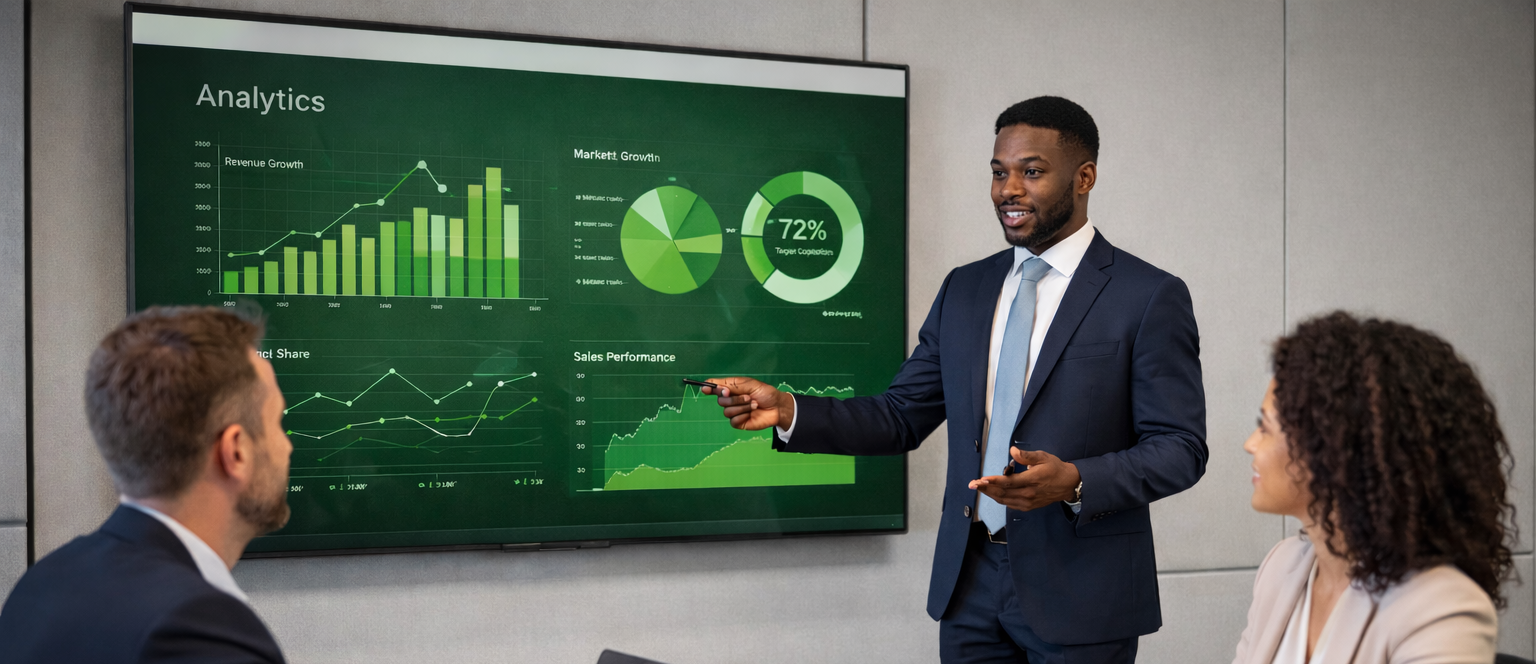
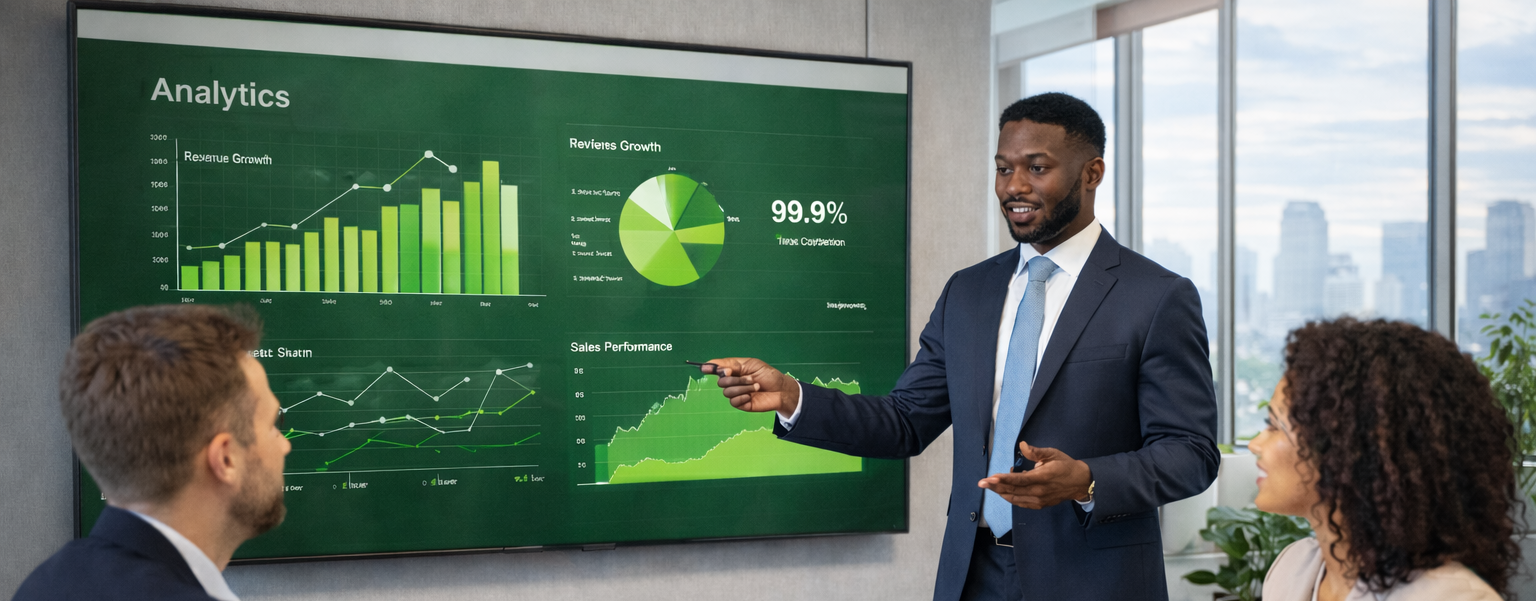
Updates to the top bar, header and assets of the hero section. Incase you need more infor about them, please open individual sections to look through

diff --git a/src/components/Header.tsx b/src/components/Header.tsx
@@ -88,7 +88,7 @@ const navItems: NavItem[] = [
       },
     ],
   },
-  { label: "News", href: "/news" },
+  
   {
     label: "Customer Information",
     href: "/credit-education",
@@ -115,6 +115,8 @@ const navItems: NavItem[] = [
       },
     ],
   },
+  { label: "News", href: "/news" },
+  // { label: "FAQs", href: "/FAQ"},
   { label: "Contact Us", href: "/contact" },
 ];
 
@@ -136,6 +138,11 @@ export default function Header() {
     return location.pathname === href;
   };
 
+  const isAnySubActive = (subItems?: NavSubItem[]) => {
+    if (!subItems) return false;
+    return subItems.some((sub) => isActive(sub.href));
+  };
+
   const textColor = "text-[#1A2636]";
   const activeColor = "text-[#91CD95]";
   const activeBg = "bg-[#EAF7EC]";
@@ -143,10 +150,10 @@ export default function Header() {
 
   return (
     <header className="bg-background sticky top-0 z-50 shadow-sm font-sans">
-      <div className="container mx-auto px-4">
-        <div className="flex items-center justify-center gap-12 py-2">
+      <div className="container mx-auto px-2">
+        <div className="flex items-center justify-center gap-2 py-2">
           {/* Logo */}
-          <a href="/" className="flex items-center gap-2 flex-shrink-0 min-w-0">
+          <a href="/" className="flex items-center gap-2 flex-shrink-0 min-w-0 mr-10">
             <img
               src="/armada-logo.png"
               alt="Armada Credit Bureau"
@@ -158,9 +165,9 @@ export default function Header() {
 
           {/* Desktop Nav */}
           <NavigationMenu className="hidden lg:flex">
-            <NavigationMenuList className="gap-0.5">
+            <NavigationMenuList className="gap-6">
               {navItems.map((item) => {
-                const isItemActive = isActive(item.href);
+                const isItemActive = isActive(item.href) || isAnySubActive(item.subItems);
 
                 return (
                   <NavigationMenuItem key={item.label} className="relative inline-block">
@@ -168,7 +175,7 @@ export default function Header() {
                       <>
                         <NavigationMenuTrigger
                           className={cn(
-                            "bg-transparent focus:bg-transparent data-[state=open]:bg-transparent px-4 py-2 text-base font-bold transition-none",
+                            "bg-transparent focus:bg-transparent data-[state=open]:bg-transparent px-1 py-2 text-base font-bold transition-none",
                             textColor,
                             isItemActive && `${activeColor} border-b-2 border-[#91CD95]`
                           )}
@@ -240,7 +247,7 @@ export default function Header() {
                         <a
                           href={item.href}
                           className={cn(
-                            "group inline-flex h-10 items-center justify-center rounded-md bg-transparent px-4 py-2 text-base font-bold transition-none",
+                            "group inline-flex h-10 items-center justify-center rounded-md bg-transparent px-2 py-2 text-base font-bold transition-none",
                             textColor,
                             isItemActive && `${activeColor} border-b-2 border-[#91CD95]`
                           )}
@@ -267,7 +274,7 @@ export default function Header() {
           </NavigationMenu>
 
           {/* Desktop Socials */}
-          <div className="hidden lg:flex items-center gap-2">
+          <div className="hidden lg:flex items-center gap-5">
             <SocialLink icon={Twitter} href="https://x.com/ArmadaCRB" />
             <SocialLink
               icon={Linkedin}
@@ -371,7 +378,7 @@ export default function Header() {
               </nav>
 
               {/* Mobile Socials */}
-              <div className="flex justify-center gap-6 mt-10 pt-6 border-t">
+              <div className="flex justify-center gap-6 mt-10 pt-6 border-t ml-2">
                 <SocialLink
                   icon={Twitter}
                   size={20}

diff --git a/src/components/TopBar.tsx b/src/components/TopBar.tsx
@@ -1,42 +1,86 @@
 import { Mail, Clock, MapPin, ArrowRight } from "lucide-react";
 
+import {
+  Menu,
+  X,
+  ChevronDown,
+  Twitter,
+  Linkedin,
+  Instagram,
+} from "lucide-react";
+
+
 const TopBar = () => {
   return (
     <div className="top-bar hidden md:block">
-      <div className="container mx-auto px-12">
-        <div className="flex items-center justify-center gap-4">
-          <div className="flex items-center gap-4 text-sm font-normal ml-12">
+      <div className="container mx-auto px-20">
+        <div className="flex items-center justify-center gap-0 ml-2">
+          <div className="flex items-center gap-8 text-sm font-bold ml-6 whitespace-nowrap">
             <a
               href="mailto:info@armadacrb.com"
               className="flex items-center gap-2 hover:text-secondary transition-colors"
             >
-              <Mail className="w-4 h-4 ml-2" />
+              <Mail className="w-4 h-4 ml-0" />
               <span>info@armadacrb.com</span>
             </a>
-            <div className="flex items-center gap-2">
+            <div className="flex items-center gap-2 ml-0 mr-0">
               <Clock className="w-4 h-4" />
-              <span>Mon-Fri 8am - 5pm (Weekend Closed)</span>
+              <span>Mon - Fri 8am - 5pm (Weekend Closed)</span>
             </div>
-            <div className="flex items-center gap-2">
+            <div className="flex items-center gap-2 ml-8">
               <MapPin className="w-4 h-4" />
               <span>29A, Lumumba Avenue Kampala, Uganda</span>
             </div>
           </div>
 
-          <div className="mr-6">
+          <div className="flex items-center ml-10">
           <a
             href="https://app.armadacrb.com/login.aspx"
-            className="justify-self-end flex items-center gap-2 bg-[#91CD95] hover:bg-[#7ab87d] text-white px-12 py-2 rounded font-semibold transition-all duration-300 whitespace-nowrap ml-28"
+            className="justify-self-end flex items-center gap-2 bg-[#91CD95] hover:bg-[#7ab87d] text-white px-9 py-2 rounded font-semibold transition-all duration-300 whitespace-nowrap"
           >
             <span>Member Login</span>
             <ArrowRight className="w-4 h-4" />
           </a>
           </div>
 
+          {/* Desktop Socials */}
+          {/* <div className="hidden lg:flex items-center gap-5">
+            <SocialLink icon={Twitter} href="https://x.com/ArmadaCRB" />
+            <SocialLink
+              icon={Linkedin}
+              href="https://ug.linkedin.com/company/armada-credit-bureau"
+            />
+            <SocialLink icon={Instagram} href="#" />
+          </div> */}
+
+
         </div>
       </div>
     </div>
   );
 };
+
+
+// SocialLink
+function SocialLink({
+  icon: Icon,
+  size = 20,
+  href = "#",
+}: {
+  icon: any;
+  size?: number;
+  href?: string;
+}) {
+  return (
+    <a
+      href={href}
+      target={href !== "#" ? "_blank" : undefined}
+      rel={href !== "#" ? "noopener noreferrer" : undefined}
+      className="text-muted-foreground transition-none"
+    >
+      <Icon className="w-5 h-5" />
+    </a>
+  );
+}
 
 export default TopBar;

diff --git a/src/components/HeroSection.tsx b/src/components/HeroSection.tsx
@@ -6,8 +6,8 @@ import { Link } from "react-router-dom";
 // Background images
 import hero1 from "@/assets/young team.png";
 import hero2 from "@/assets/credit_report.png";
-import hero3 from "@/assets/analytics_african_men.png";
-import hero4 from "@/assets/women_standing_final3.png";
+import hero3 from "@/assets/analytics_african_men1.png";
+import hero4 from "@/assets/women_standing.png";
 import hero5 from "@/assets/risk_int.png";
 import hero6 from "@/assets/lady and the guy final.png";
 import hero7 from "@/assets/welcome6.png";
@@ -48,7 +48,7 @@ const slides = [
     image: hero3,
   },
   {
-    title: "Credit Education & Financial Literacy",
+    title: "Credit Education &\nFinancial Literacy",
     subtitle:
       "Credit education is key to building a healthy credit culture. Learn more about credit today",
     cta: "View More",
@@ -56,7 +56,7 @@ const slides = [
     image: hero4,
   },
   {
-    title: "Business Intelligence & Insights Reports",
+    title: "Business Intelligence &\nInsights Reports",
     subtitle:
       "Our risk intelligence module provides insights into credit risk factors and trends",
     cta: "View More",
@@ -147,7 +147,7 @@ const HeroSection = () => {
       ))}
 
       {/* Overlay - Stronger on mobile for better text readability */}
-      <div className="hero-overlay absolute inset-0 bg-black/10 md:bg-black/10 z-[3]" />
+      <div className="hero-overlay absolute inset-0 bg-black/4 md:bg-black/4 z-[3]" />
 
       {/* Content - Responsive padding and spacing */}
       <div className="relative z-10 container mx-auto px-4 sm:px-6 md:px-12 lg:px-28 py-12 sm:py-16 md:py-20 lg:py-28 h-full flex items-center">

diff --git a/src/components/CoreValues.tsx b/src/components/CoreValues.tsx
@@ -46,7 +46,7 @@ const CoreValues = () => {
          {/* <span className="section-label">Our Framework</span> */}
           <div className="flex items-center justify-center gap-4 mb-4">
             <div className="h-1 w-8 bg-secondary flex-shrink-0 translate-y-[-4px]"></div>
-            <span className="section-label">Our Framework</span>
+            <span className="section-label text-xl font-heading font-bold text-foreground">Our Framework</span>
             <div className="h-1 w-8 bg-secondary flex-shrink-0 translate-y-[-4px]"></div>
           </div>
           <h2 className="section-title-dark mb-4">Our Core Values</h2>
@@ -61,7 +61,7 @@ const CoreValues = () => {
           {values.map((value, index) => (
             <div
               key={value.title}
-              className="value-card group text-center transition-colors duration-300 hover:bg-navy"
+              className="value-card group text-center h-[26rem] transition-colors duration-300 hover:bg-navy"
               style={{ animationDelay: `${index * 0.1}s` }}
             >
               <div className="w-28 h-28 rounded-full bg-[#91CD95] flex items-center justify-center mx-auto mb-8 transition-colors duration-300">

diff --git a/src/pages/SelfInquiry.tsx b/src/pages/SelfInquiry.tsx
@@ -153,8 +153,12 @@ const SelfInquiry = () => {
                   key={index}
                   className="bg-background rounded-2xl shadow-xl border border-muted p-6 text-center transition-all hover:shadow-2xl"
                 >
-                  <div className="w-16 h-16 rounded-2xl bg-secondary/10 flex items-center justify-center mx-auto mb-6">
-                    <step.icon className="w-8 h-8 text-secondary" />
+                  {/* Step Number */}
+                  <div className="text-xl font-heading font-bold mb-3 tracking-wider">
+                    Step {index + 1}
+                  </div>
+                  <div className="w-24 h-24 rounded-full bg-[#91CD95] flex items-center justify-center mx-auto mb-6">
+                    <step.icon className="w-12 h-12 text-white" />
                   </div>
                   <h3 className="text-xl font-heading font-bold mb-3">{step.title}</h3>
                   <p className="text-sm text-muted-foreground leading-relaxed whitespace-pre-line">

diff --git a/src/components/ProductSuite.tsx b/src/components/ProductSuite.tsx
@@ -47,7 +47,7 @@ const ProductSuite = () => {
         <div className="text-center max-w-2xl mx-auto mb-16">
           <div className="flex items-center justify-center gap-4 mb-4">
             <div className="h-1 w-8 bg-secondary flex-shrink-0 translate-y-[-4px]"></div>
-            <span className="section-label">What We Offer</span>
+            <span className="section-label text-xl font-heading font-bold text-foreground">What We Offer</span>
             <div className="h-1 w-8 bg-secondary flex-shrink-0 translate-y-[-4px]"></div>
           </div>
           <div className="flex items-center justify-center gap-4 mb-4">

diff --git a/src/components/AboutSection.tsx b/src/components/AboutSection.tsx
@@ -30,7 +30,7 @@ const AboutSection = () => {
 
           {/* Content */}
           <div>
-            <span className="section-label font-semibold text-lg flex items-center gap-2 mb-2">
+            <span className="section-label text-xl font-heading font-bold text-foreground text-lg flex items-center gap-2 mb-2">
               About us
               <span className="inline-block w-8 h-1 bg-[#91CD95] rounded ml-2 align-middle"></span>
             </span>
